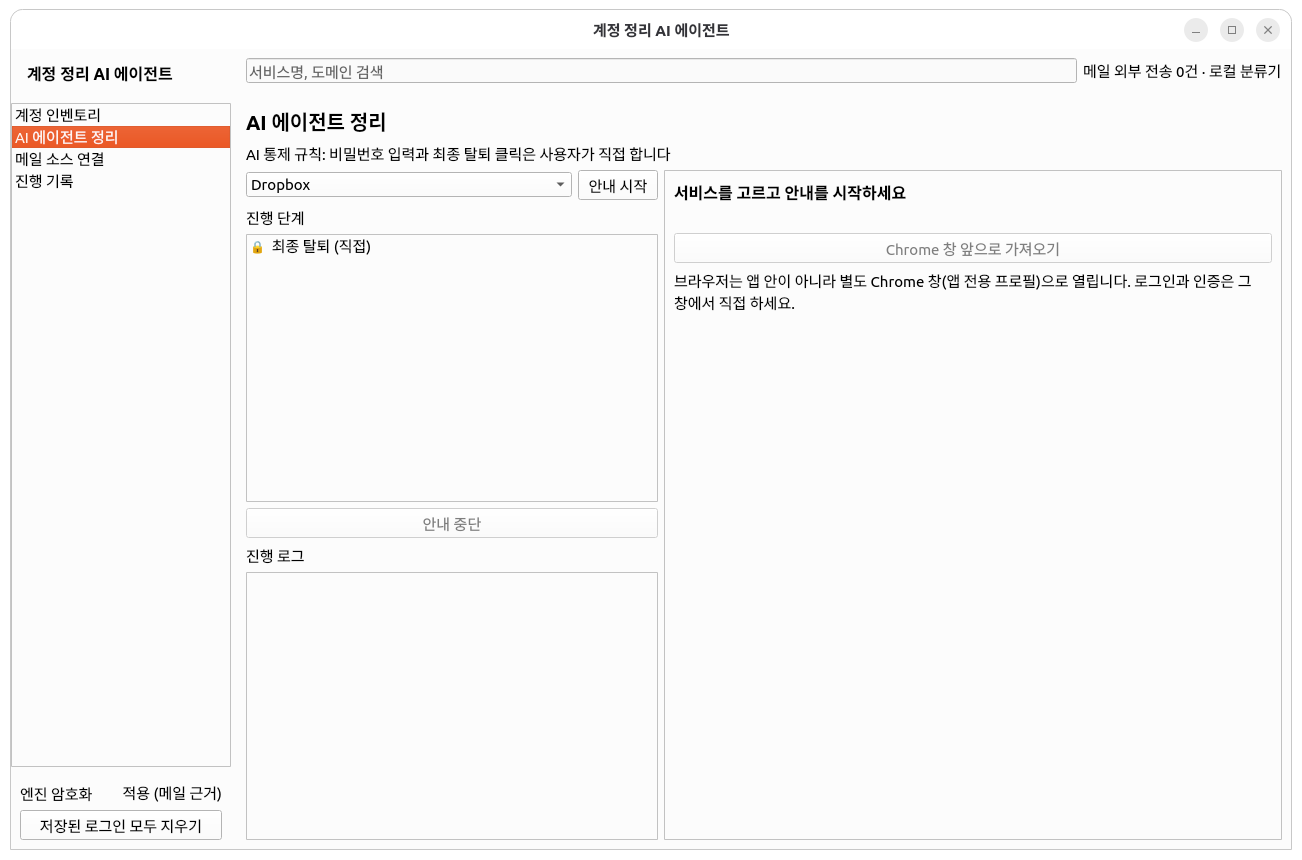
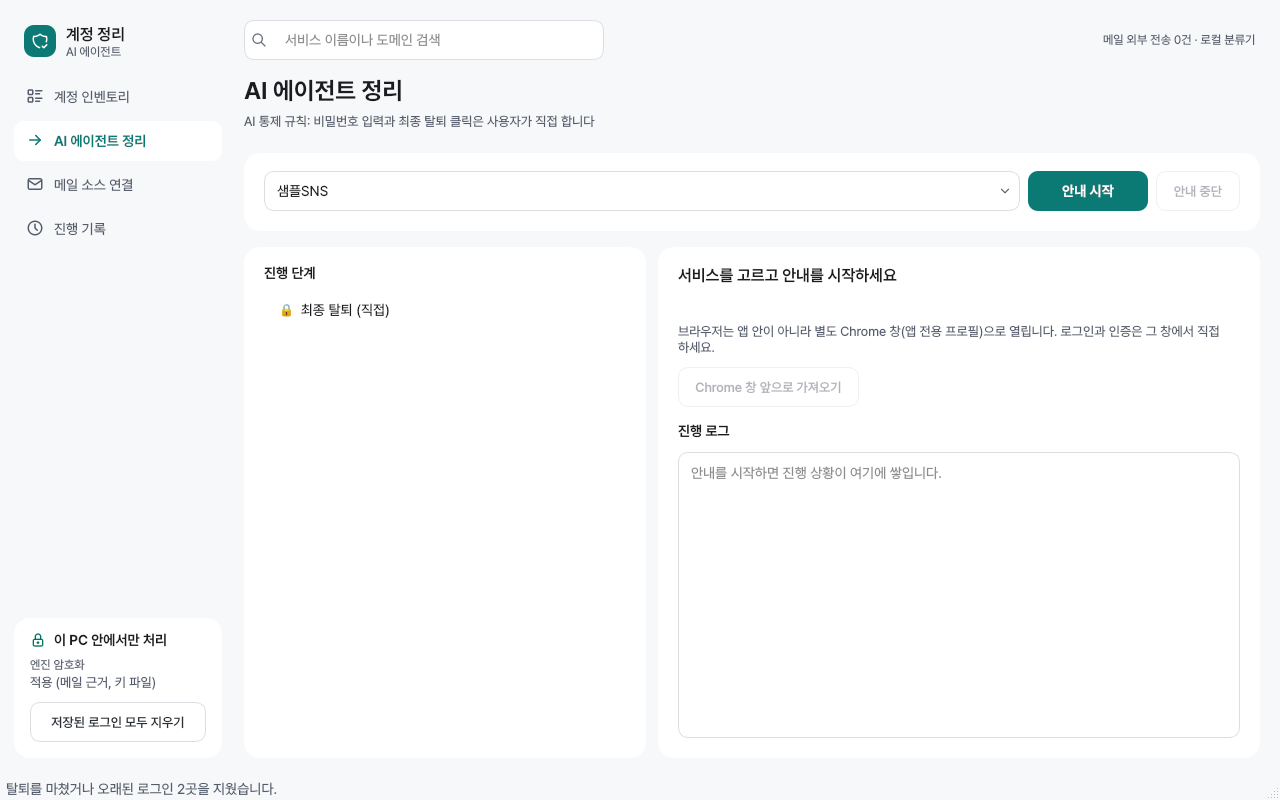
화면별 가이드 이미지를 새 디자인 캡처(가짜 데이터)로 교체하고 바뀐 버튼·문구 반영, 탈퇴 안내 창 그림 추가 (#66)

diff --git a/docs/06_화면별_사용가이드.md b/docs/06_화면별_사용가이드.md
@@ -35,25 +35,33 @@
 
 ![계정 인벤토리](images/guide/inventory.png)
 
-**위쪽 숫자 카드**: 찾은 계정 / 아직 확인 안 한 것 / 정리 중 / 완료 개수.
+> 그림은 연습용 가짜 데이터로 찍었다. 그래서 `탈퇴 준비하기` 버튼이 꺼져 보인다.
+
+**맨 위 문장**: 지금 할 일을 알려 준다 (예: "확인할 계정이 7개 있어요").
+
+**숫자 카드**: 찾은 계정 / 확인 필요(청록) / 정리 중 / 완료 개수.
 
 **여기서 할 수 있는 것**
 - **찾기**: 맨 위 검색창에 서비스 이름이나 도메인을 친다.
-- **나눠 보기**: `전체 / 미확인 / 확정 / 제외·보류` 탭, 오른쪽 위 정렬(신뢰도 높은 순, 최근 메일 순).
+- **나눠 보기**: `전체 / 미확인 / 확정 / 제외·보류` 탭, 오른쪽 위 정렬(계정일 가능성 높은 순, 최근 메일 순).
+- 목록 한 줄에는 서비스 이름·도메인, 근거 요약, 계정일 가능성(%), 상태 배지가 보인다. 글이 잘리면 마우스를 올려 전체를 본다.
 - **목록에서 하나를 누르면** 오른쪽에 자세한 내용이 나온다.
-  - 왜 계정이라고 봤는지 (어떤 메일 몇 통이 근거인지)
+  - "왜 계정이라고 봤나요?" — 어떤 메일 몇 통이 근거인지
   - 근거 메일 목록. 하나 누르면 본문 앞부분이 보인다.
   - `내 계정 맞아요` / `아니에요` / `나중에` 로 표시한다.
-  - `탈퇴 준비 (로그인·조건 확인)`: 창이 하나 뜬다.
+  - `탈퇴 준비하기`: 안내 창이 하나 뜬다.
+
+    ![탈퇴 안내 창](images/guide/guide.png)
+
     1. 로그인 방법과 비밀번호 재설정 링크를 본다 (평소 쓰는 브라우저로 열림).
     2. 탈퇴 전에 확인할 것(유료 플랜, 저장된 파일 등)을 모두 체크한다.
     3. `AI 에이전트로 탈퇴 진행`을 누르면 ③번 화면으로 넘어간다.
   - `탈퇴를 끝냈어요`: 안내를 받은 뒤 최종 탈퇴를 마쳤으면 누른다.
 
 **알아 두면 좋은 것**
-- 신뢰도는 "계정일 가능성"으로 정렬하는 기준일 뿐이다. 꼭 근거 메일을 보고 판단한다.
+- 계정일 가능성(%)은 정렬하는 기준일 뿐이다. 꼭 근거 메일을 보고 판단한다.
 - 앱을 껐다 켜도 목록과 내가 표시한 상태는 그대로 남는다.
-- `탈퇴 준비` 버튼이 꺼져 있으면 아직 안내 정보(플레이북)가 없는 서비스다. 지금은 GitHub, Dropbox, LinkedIn만 된다.
+- `탈퇴 준비하기` 버튼이 꺼져 있으면 아직 안내 정보(플레이북)가 없는 서비스다. 지금은 GitHub, Dropbox, LinkedIn만 된다.
 
 ---
 
@@ -99,7 +107,7 @@
 
 | 항목 | 뜻 |
 |---|---|
-| 엔진 암호화: `적용 (메일 근거)` | 근거 메일(보낸 사람·제목·본문 앞부분)을 암호화해서 저장하고 있다는 표시 |
+| "이 PC 안에서만 처리" 카드의 엔진 암호화: `적용 (메일 근거)` | 근거 메일(보낸 사람·제목·본문 앞부분)을 암호화해서 저장하고 있다는 표시 |
 | `저장된 로그인 모두 지우기` | AI 안내용 Chrome에 남은 로그인을 전부 지운다. 평소 쓰는 Chrome은 그대로다 |
 
 로그인은 원래 자동으로 정리된다. 탈퇴를 끝낸 서비스는 바로, 못 끝낸 서비스는 14일 뒤에 지운다.
